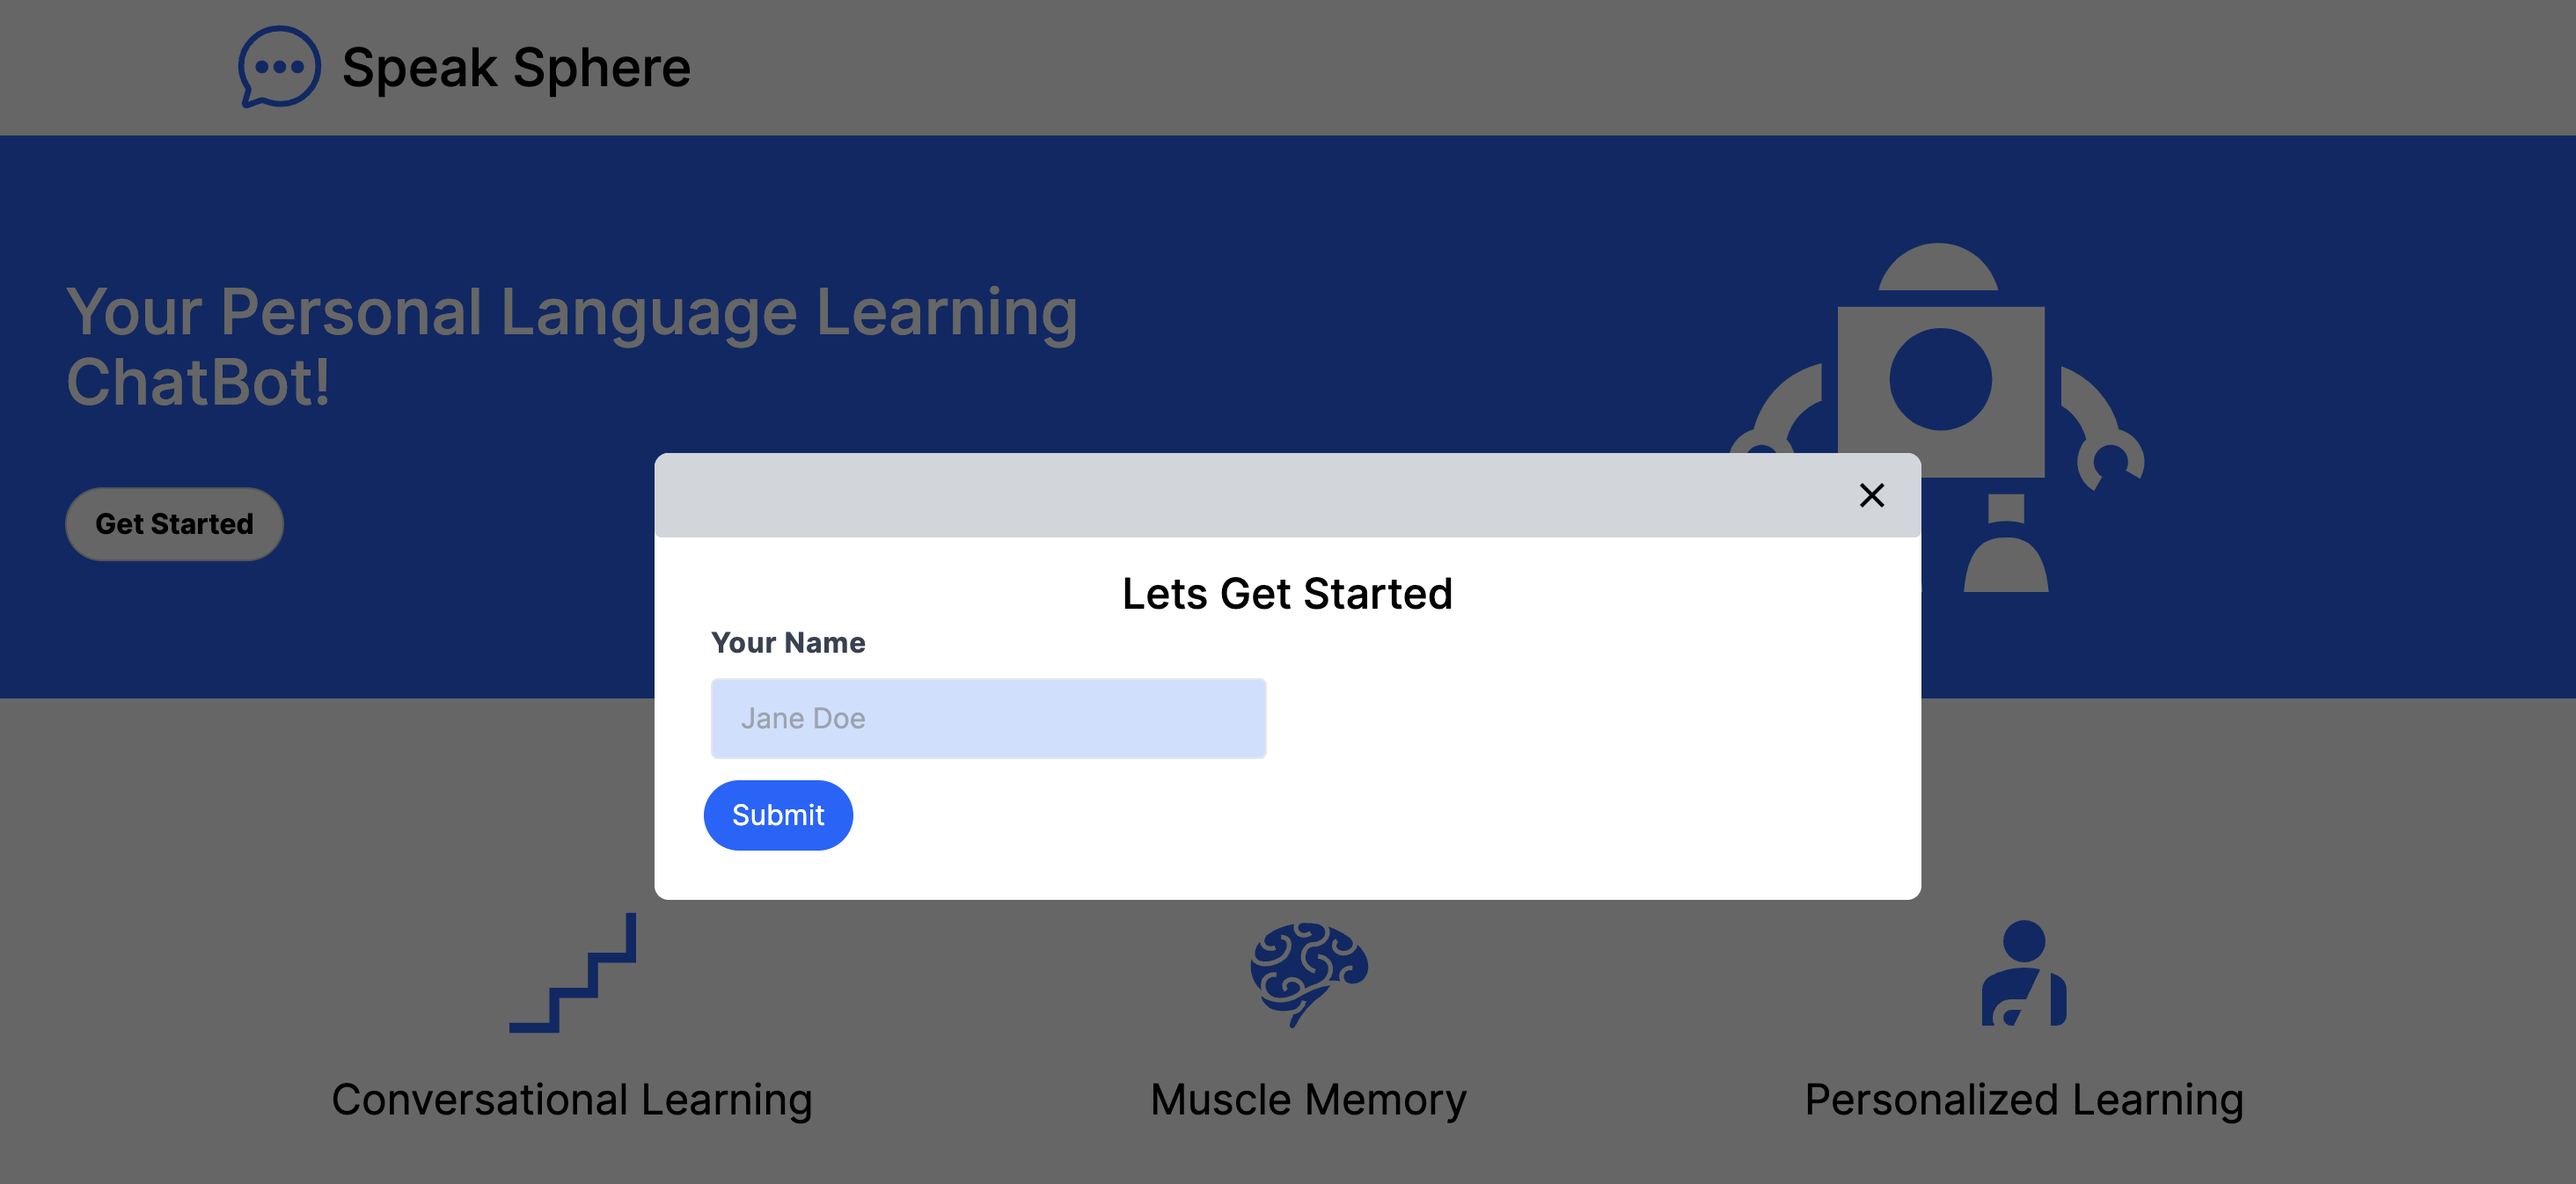
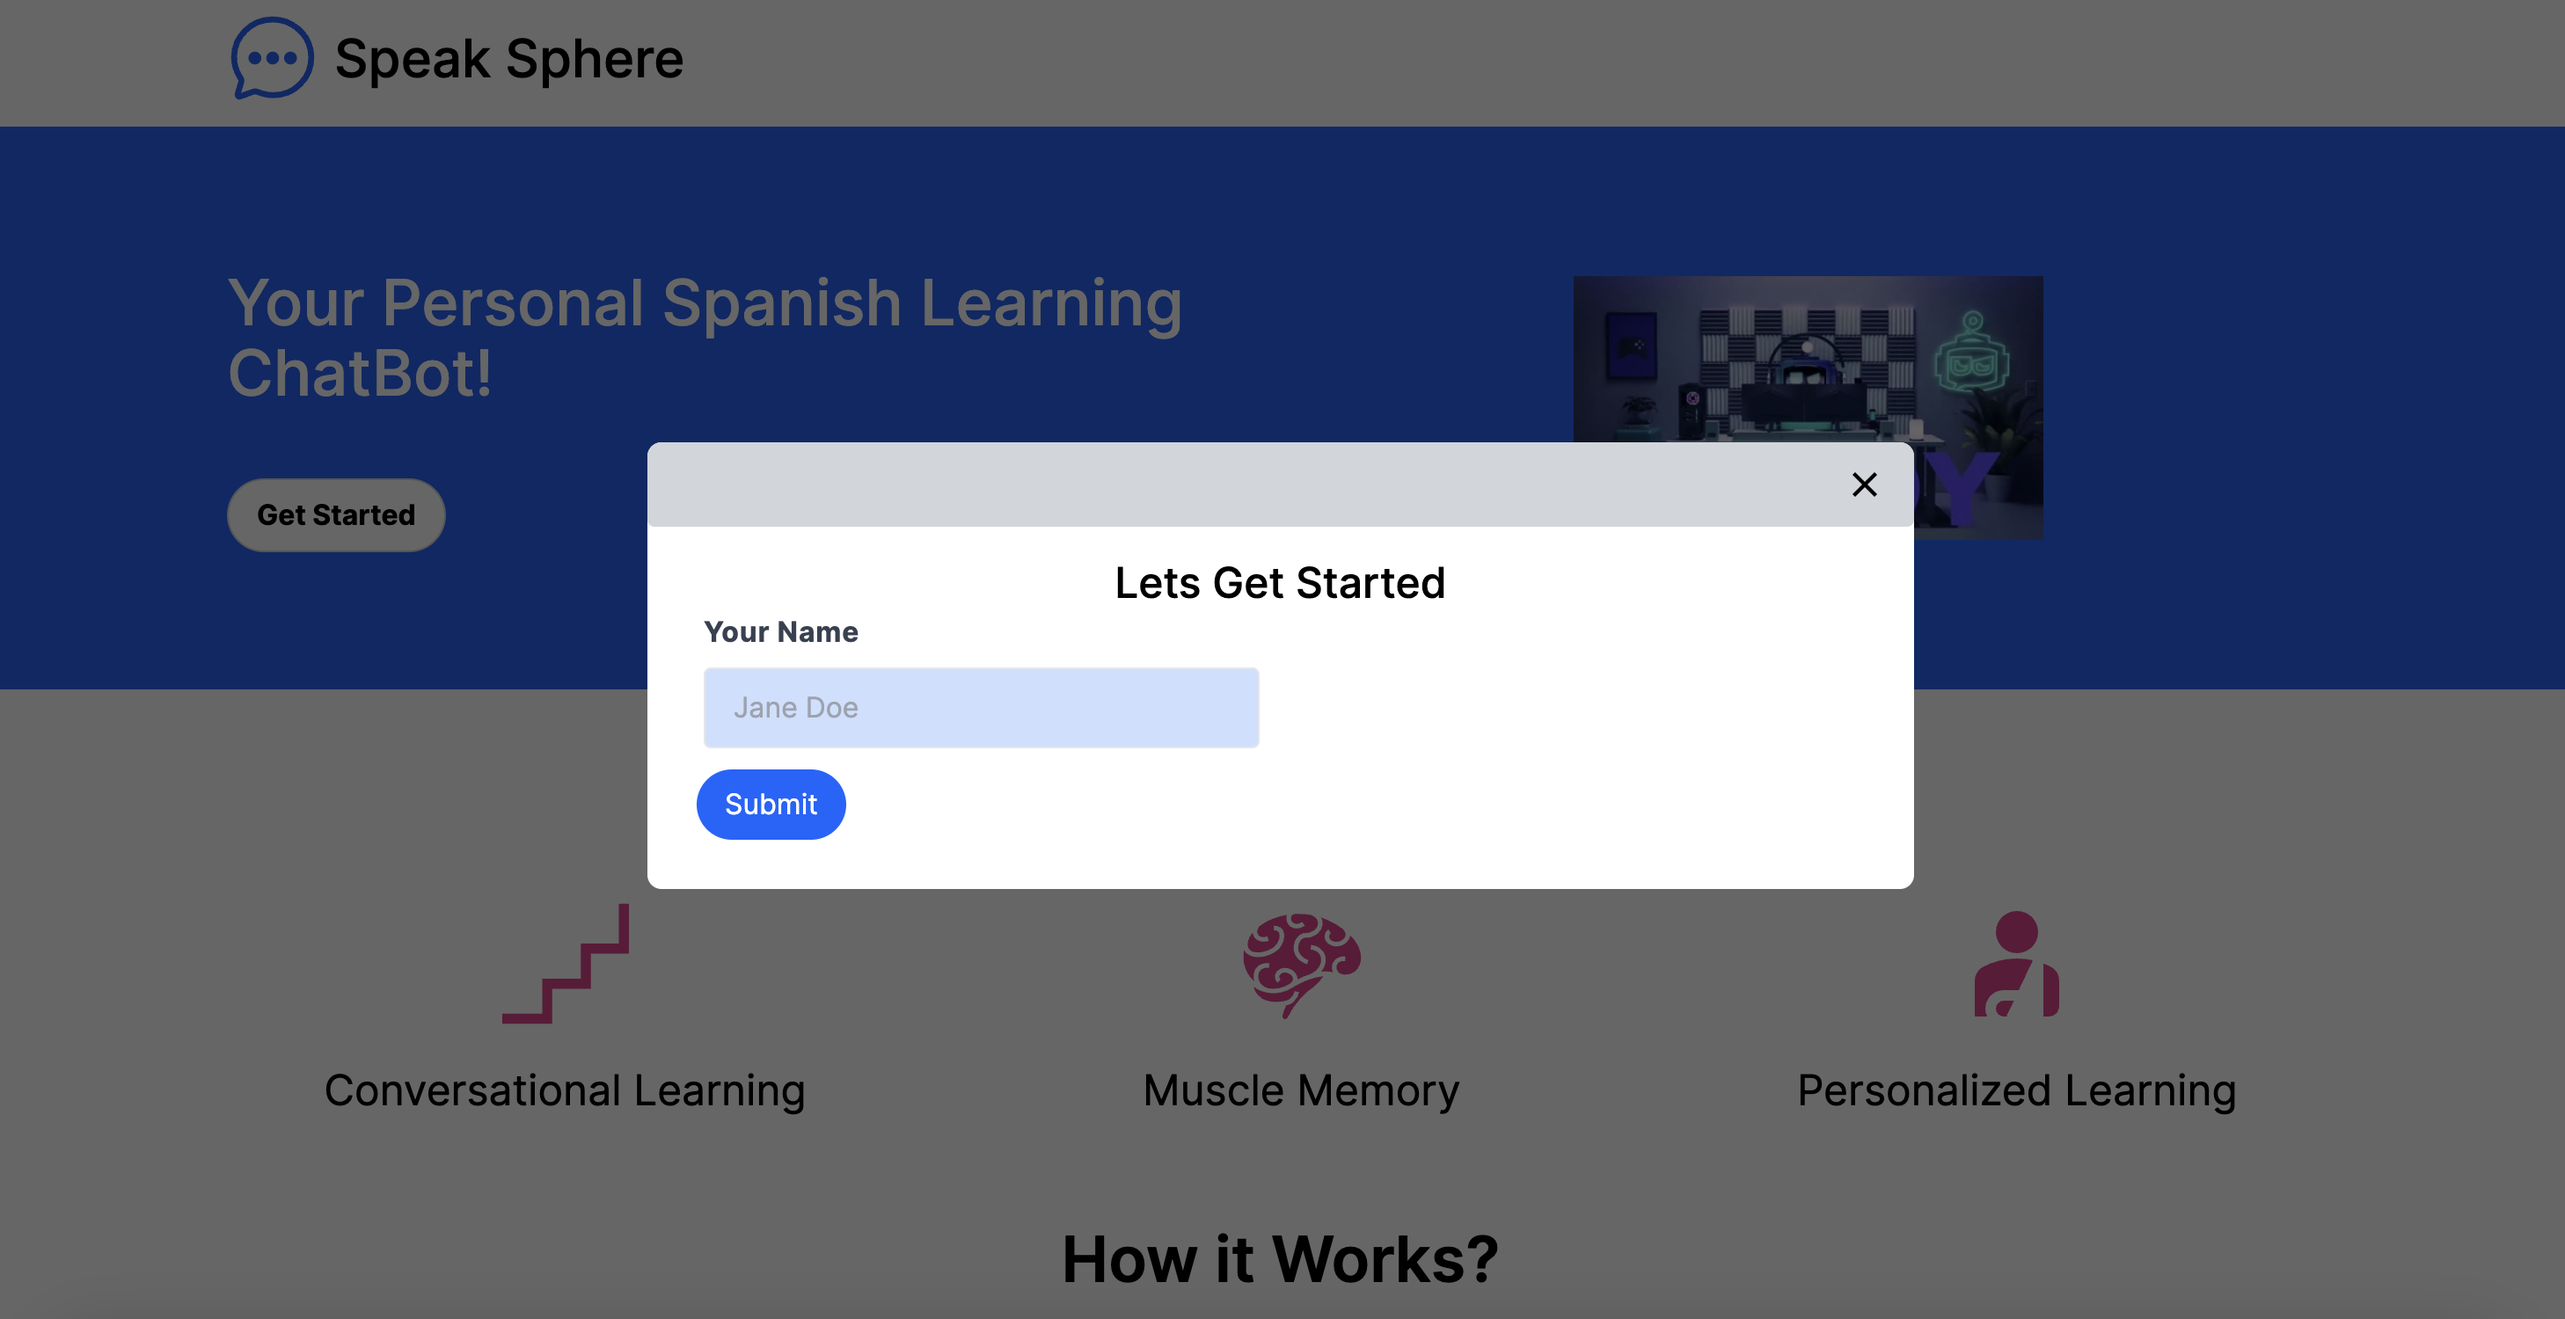
💄 UI changes

diff --git a/frontend/app/page.tsx b/frontend/app/page.tsx
@@ -1,7 +1,7 @@
 'use client';
 import { useState } from 'react';
 import { Button } from './components/shared';
-import { Bot, Brain, Learning, Personal, DownArrow } from './utils/icons';
+import { Brain, Learning, Personal, DownArrow } from './utils/icons';
 import Modal from 'react-lean-modal';
 import { Form } from './components/landing';
 import Image from 'next/image';
@@ -20,17 +20,31 @@ export default function Home() {
     <div>
       <div className="h-80 w-screen bg-primary-blue flex">
         <div className="w-1/2 p-10">
-          <span className="flex py-10 justify-center items-center font-medium text-4xl text-primary-white">
-            Your Personal Language Learning ChatBot!
+          <span className="flex py-10 pl-24 justify-center items-center font-medium text-4xl text-primary-white">
+            Your Personal Spanish Learning ChatBot!
           </span>
-          <Button handleClick={handleModal} type="secondary">
-            <span>Get Started</span>
-          </Button>
+          <span className="pl-24">
+            <Button handleClick={handleModal} type="secondary">
+              <span>Get Started</span>
+            </Button>
+          </span>
         </div>
 
-        <figure className="w-1/2 flex justify-center items-center text-primary-white text-9xl">
-          <Bot />
+        <figure className="flex justify-center items-center text-primary-pink text-9xl">
+          <div>
+            <iframe
+              src="https://giphy.com/embed/S97VgVcYw0upbqmX8H"
+              width="200%"
+              height="100%"
+              frameBorder="0"
+              className="giphy-embed"
+              allowFullScreen></iframe>
+          </div>
         </figure>
+
+        {/* <figure className="w-1/2 flex justify-center items-center text-primary-pink text-9xl">
+          <Bot />
+        </figure> */}
       </div>
       <div className="py-10">
         <h1 className="font-semibold text-4xl flex justify-center pb-5">
@@ -38,19 +52,19 @@ export default function Home() {
         </h1>
         <div className="flex justify-evenly">
           <div>
-            <figure className="text-7xl text-primary-blue flex justify-center py-5">
+            <figure className="text-7xl text-primary-pink flex justify-center py-5">
               <Learning />
             </figure>
             <h1 className="font-normal text-2xl">Conversational Learning</h1>
           </div>
           <div>
-            <figure className="text-7xl text-primary-blue flex justify-center py-5">
+            <figure className="text-7xl text-primary-pink flex justify-center py-5">
               <Brain />
             </figure>
             <h1 className="font-normal text-2xl">Muscle Memory</h1>
           </div>
           <div>
-            <figure className="text-7xl text-primary-blue flex justify-center py-5">
+            <figure className="text-7xl text-primary-pink flex justify-center py-5">
               <Personal />
             </figure>
             <h1 className="font-normal text-2xl">Personalized Learning</h1>
@@ -61,33 +75,29 @@ export default function Home() {
         <h1 className="font-semibold text-4xl flex justify-center">
           How it Works?
         </h1>
-        <div className="flex justify-center py-5 pt-10 animate-pulse">
-          <Button handleClick={handleModal} type="primary">
-            <span>Get Started</span>
-          </Button>
-        </div>
+
         <div className="flex justify-center items-center py-4">
           <div className="w-1/2 flex justify-center items-center text-lg font-medium ">
             Simply Enter your name to get started!
           </div>
           <figure className="shadow-lg">
-            <Image src={GetStarted} height={600} width={600} alt="Name Input" />
+            <Image src={GetStarted} height={900} width={900} alt="Name Input" />
           </figure>
         </div>
 
-        <figure className="flex justify-center items-center text-5xl text-primary-blue animate-bounce py-5">
+        <figure className="flex justify-center items-center text-5xl text-primary-pink py-5">
           <DownArrow />
         </figure>
         <div className="flex justify-center items-center py-4">
           <figure>
-            <Image src={Chatbot} height={600} width={600} alt="Chatbot" />
+            <Image src={Chatbot} height={900} width={900} alt="Chatbot" />
           </figure>
           <div className="w-1/2 flex justify-center items-center text-lg font-medium text-center px-10">
             Start talking to the bot and it will respond to you in the spanish
             trying to teach you more about it.
           </div>
         </div>
-        <figure className="flex justify-center items-center text-5xl text-primary-blue animate-bounce py-5">
+        <figure className="flex justify-center items-center text-5xl text-primary-pink py-5">
           <DownArrow />
         </figure>
         <div className="flex justify-center items-center py-4">
@@ -96,8 +106,13 @@ export default function Home() {
             the english translation
           </div>
           <figure className="shadow-lg">
-            <Image src={Translate} height={600} width={600} alt="Translate" />
+            <Image src={Translate} height={900} width={900} alt="Translate" />
           </figure>
+        </div>
+        <div className="flex justify-center py-5 pt-10">
+          <Button handleClick={handleModal} type="primary">
+            <span>Get Started</span>
+          </Button>
         </div>
       </div>
       <Modal

diff --git a/frontend/app/components/shared/button.tsx b/frontend/app/components/shared/button.tsx
@@ -5,10 +5,10 @@ const Button: React.FC<ButtonProps> = ({ type, handleClick, children }) => {
     <button
       type="submit"
       onClick={handleClick}
-      className={`text-md px-4 py-2 font-bold rounded-full w-fit cursor-pointer hover:scale-110 ${
+      className={`text-md px-4 py-2 rounded-full w-fit cursor-pointer hover:scale-110 ${
         type === 'primary'
           ? 'bg-primary-blue text-gray-100'
-          : 'bg-white border border-gray-300 text-black'
+          : 'bg-primary-pink border-gray-300 text-white'
       }`}>
       {children}
     </button>

diff --git a/frontend/app/utils/icons/index.ts b/frontend/app/utils/icons/index.ts
@@ -1,6 +1,5 @@
 export { default as Logo } from './logo';
 export { default as SendButton } from './send-button';
-export { default as Bot } from './bot';
 export { default as Learning } from './learning';
 export { default as Brain } from './brain';
 export { default as Personal } from './personal';

diff --git a/frontend/tailwind.config.js b/frontend/tailwind.config.js
@@ -16,6 +16,7 @@ module.exports = {
       colors: {
         'primary-orange': '#FF7629',
         'primary-blue': '#0066FF',
+        'primary-pink': '#EC368D',
         'secondary-blue': '#CCE0FF',
         'primary-white': '#FFFFFF',
         'primary-black': '#000000',
